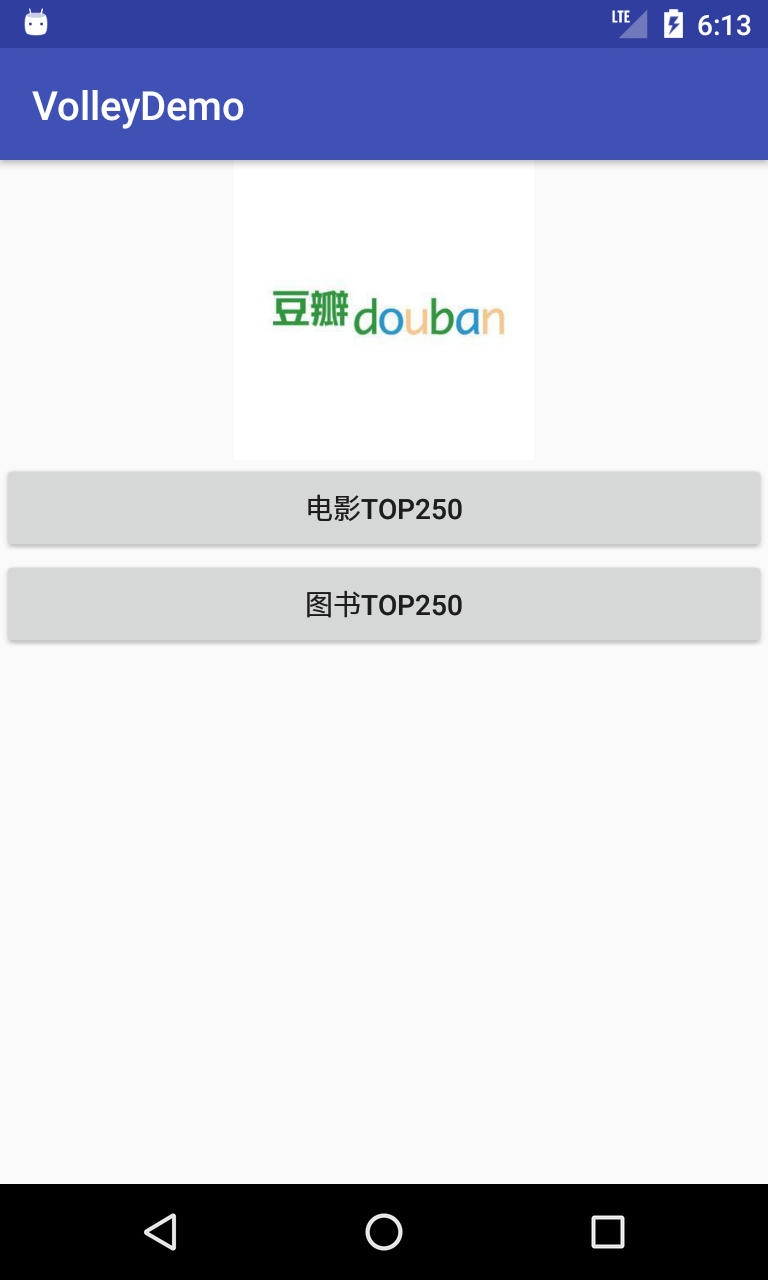
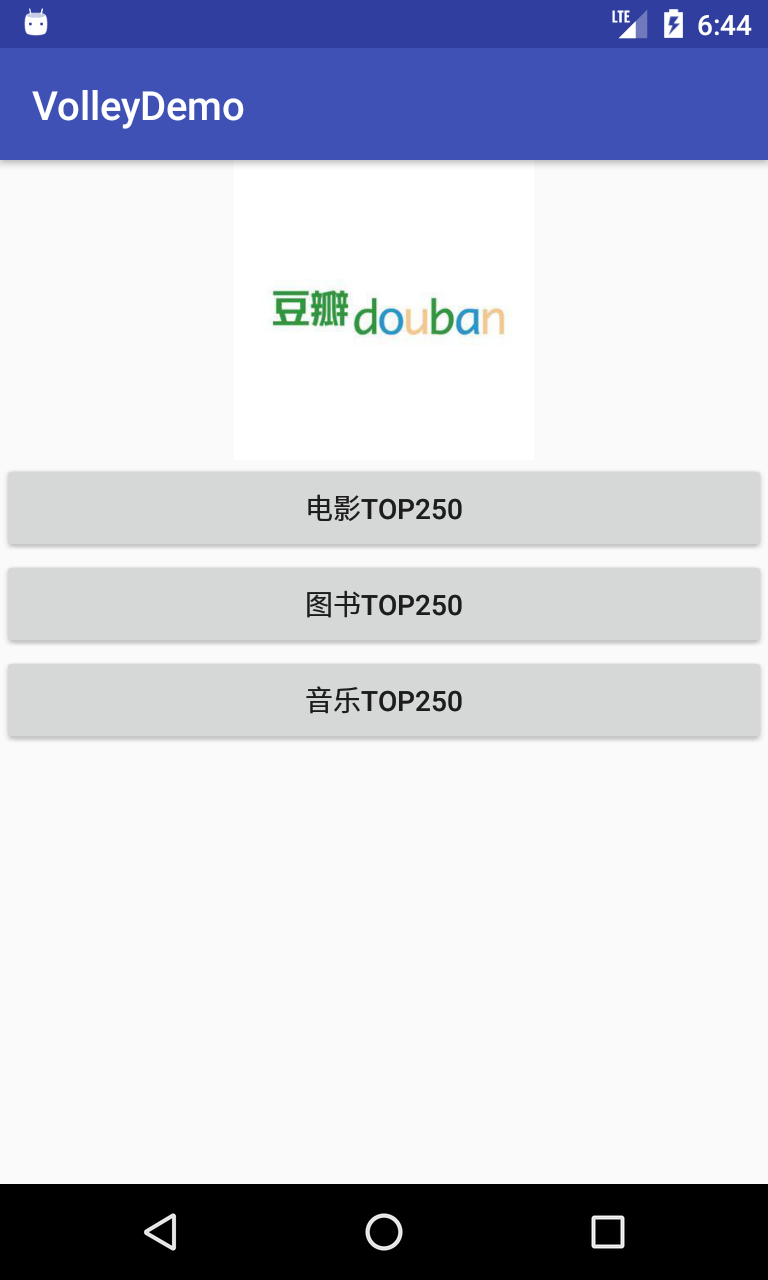
add music info

Changed region(s): [[0.0, 0.5, 1.0, 0.5938], [0.9375, 0.0, 0.9688, 0.0312], [0.8125, 0.0, 0.8438, 0.0312]]

diff --git a/VolleyDemo/app/src/main/java/com/jason63/volleydemo/Douban250.java b/VolleyDemo/app/src/main/java/com/jason63/volleydemo/Douban250.java
@@ -40,6 +40,7 @@ public class Douban250 extends Activity {
     final String RATE_NUM=" <span>(.*?)人评价" ;
     final String RATING = " <span class=\"rating_num\" property=\"v:average\">(.*?)</span>" ;
     final String DETAIL = "导演((.|\n|\n\r)*?)</p>" ;
+    final String MUSIC = "<img src=\"(.*?)style=" ;
     PicAdapter adapter ;
     ArrayList<Item> itemList ;
     int start ;
@@ -108,7 +109,7 @@ public class Douban250 extends Activity {
                        + "\n\n“" + quote[i].split("<(.*?)>")[1]+"”";
 
            }
-       } else {
+       } else if(type.equals("book")){
            str = matchPattern(BOOK_IMG, s);
            quote = matchPattern(QUOTE, s);
            title = matchPattern(BOOK_TITLE, s);
@@ -117,6 +118,13 @@ public class Douban250 extends Activity {
                imgList[i] = str[i].split("\"")[1];
                String pinjia = TextUtils.isEmpty(quote[i])? "豆瓣没有精选评论哦~~": quote[i].split("<(.*?)>")[1] ;
                nameList[i] = count++ + "." + title[i].split("\"")[1] + "\n" + pinjia;
+           }
+       }
+       else if(type.equals("music")){
+           str = matchPattern(MUSIC, s);
+           for (int i = 0; i < 25; i++) {
+               imgList[i] = str[i].split("\"")[1];
+               nameList[i] = count++ + "." + str[i].split("\"")[3] ;
            }
        }
    }

diff --git a/VolleyDemo/app/src/main/java/com/jason63/volleydemo/MainActivity.java b/VolleyDemo/app/src/main/java/com/jason63/volleydemo/MainActivity.java
@@ -35,6 +35,7 @@ public class MainActivity extends AppCompatActivity {
         setContentView(R.layout.activity_main);
         Button top250 = findViewById(R.id.top250) ;
         Button book = findViewById(R.id.book250) ;
+        Button music = findViewById(R.id.music250) ;
         top250.setOnClickListener(new View.OnClickListener() {
             @Override
             public void onClick(View v) {
@@ -48,6 +49,14 @@ public class MainActivity extends AppCompatActivity {
             public void onClick(View v) {
                 Intent intent = new Intent(MainActivity.this, Douban250.class) ;
                 intent.putExtra("type","book") ;
+                startActivity(intent);
+            }
+        });
+        music.setOnClickListener(new View.OnClickListener() {
+            @Override
+            public void onClick(View v) {
+                Intent intent = new Intent(MainActivity.this, Douban250.class) ;
+                intent.putExtra("type","music") ;
                 startActivity(intent);
             }
         });
